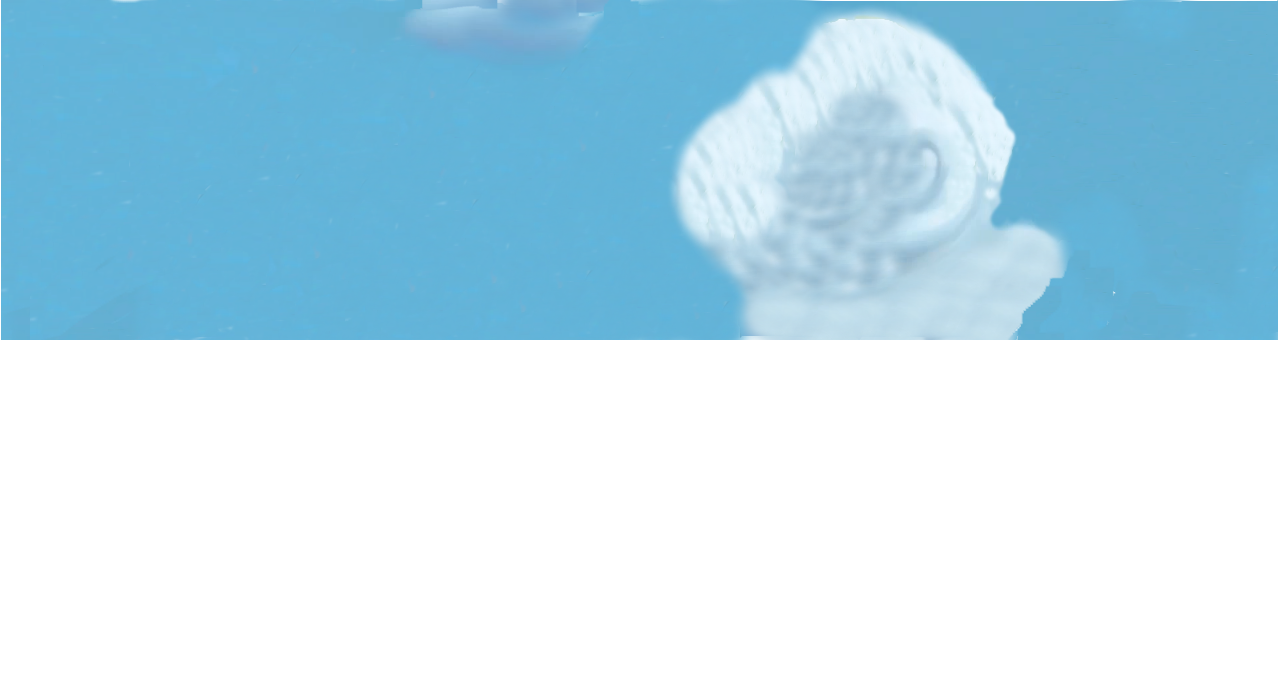
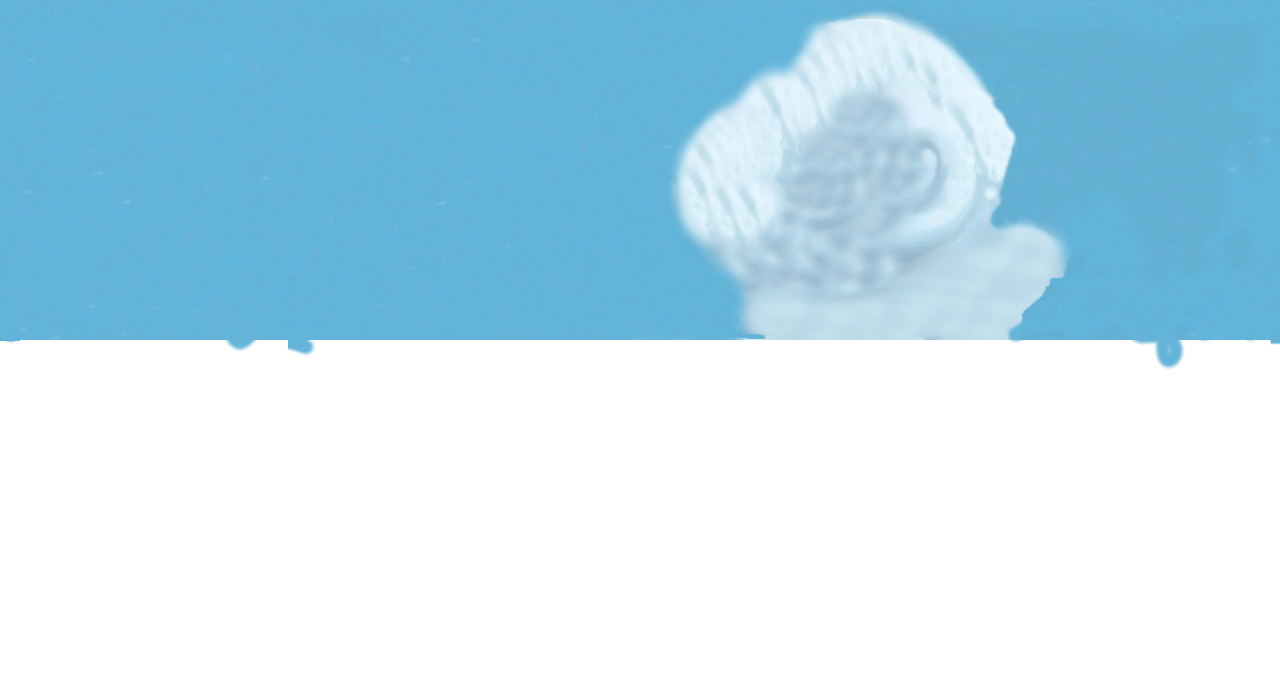
mv back scene 5

diff --git a/GIMP/src/scene/house.c b/GIMP/src/scene/house.c
@@ -5,7 +5,7 @@
 ** Login   <marel_m@epitech.net>
 **
 ** Started on  Tue Apr 12 15:32:57 2016 marel_m
-** Last update Sat Apr 16 12:44:01 2016 marel_m
+** Last update Sat Apr 16 13:52:07 2016 marel_m
 */
 
 #include "default.h"
@@ -119,6 +119,8 @@ void			house_out(t_data *data)
   pix_initialize(data->new);
   pos.x = 0;
   pos.y = 0;
+  if (data->mv_s->mv_bck <= 3)
+    data->mv_s->mv_bck = 4;
   if (i % 2 == 0)
     {
       if (data->mv_s->mv_bck == WIDTH - 3)

diff --git a/GIMP/src/main.c b/GIMP/src/main.c
@@ -5,7 +5,7 @@
 ** Login   <peau_c@epitech.net>
 **
 ** Started on  Thu Nov 19 10:13:25 2015 clement peau
-** Last update Sat Apr 16 12:54:41 2016 marel_m
+** Last update Sat Apr 16 12:59:49 2016 marel_m
 */
 
 #include "default.h"
@@ -82,7 +82,7 @@ int			main(int ac, char **av)
       printf("init tab\n");
       return (1);
     }
-  data.mv_s->s_nb = 0;
+  data.mv_s->s_nb = 5;
   data.mv_s->mv_bck = 0;
   data.mv_s->mv_fr = 0;
   data.mv_s->click = 0;
